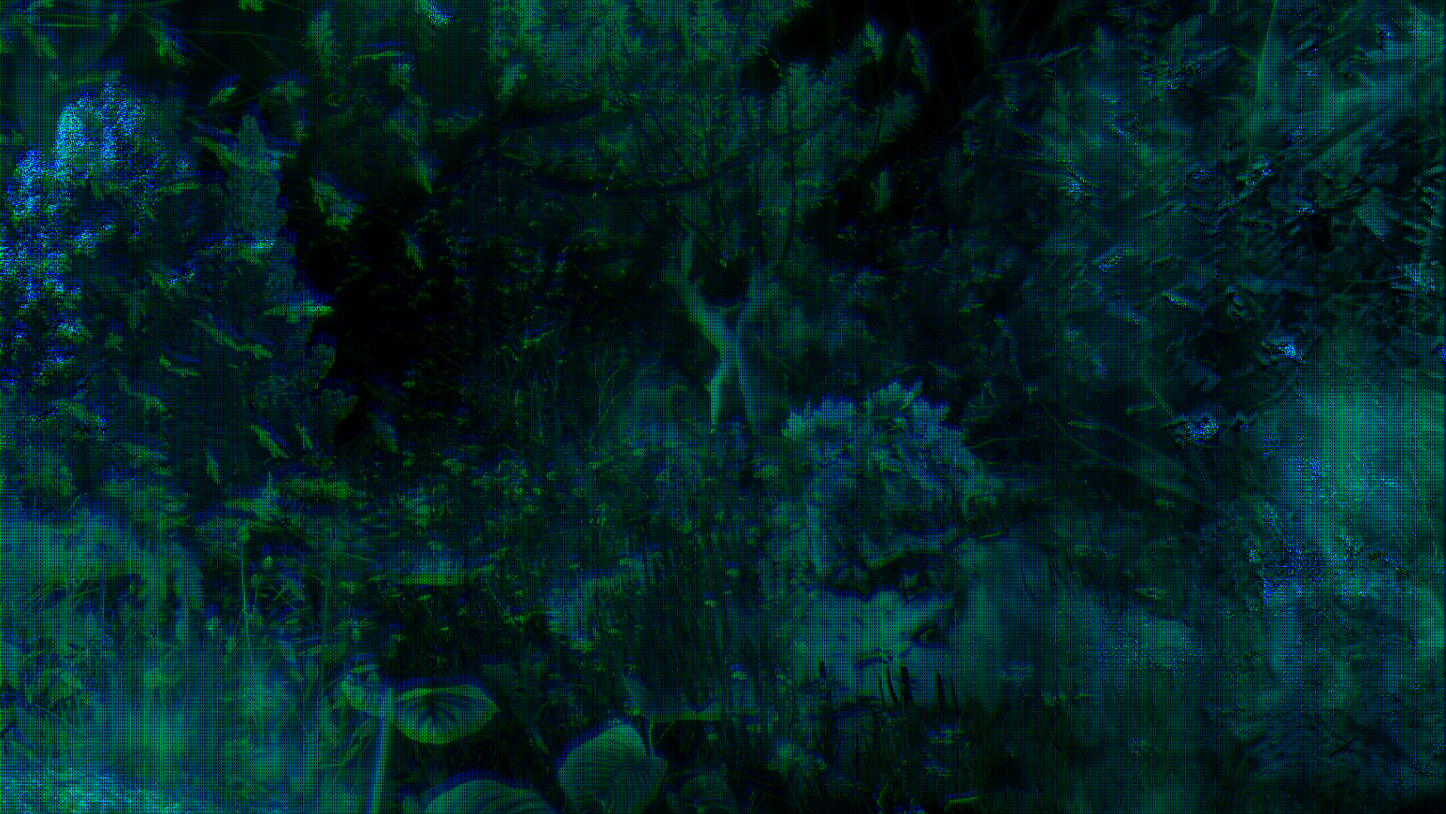
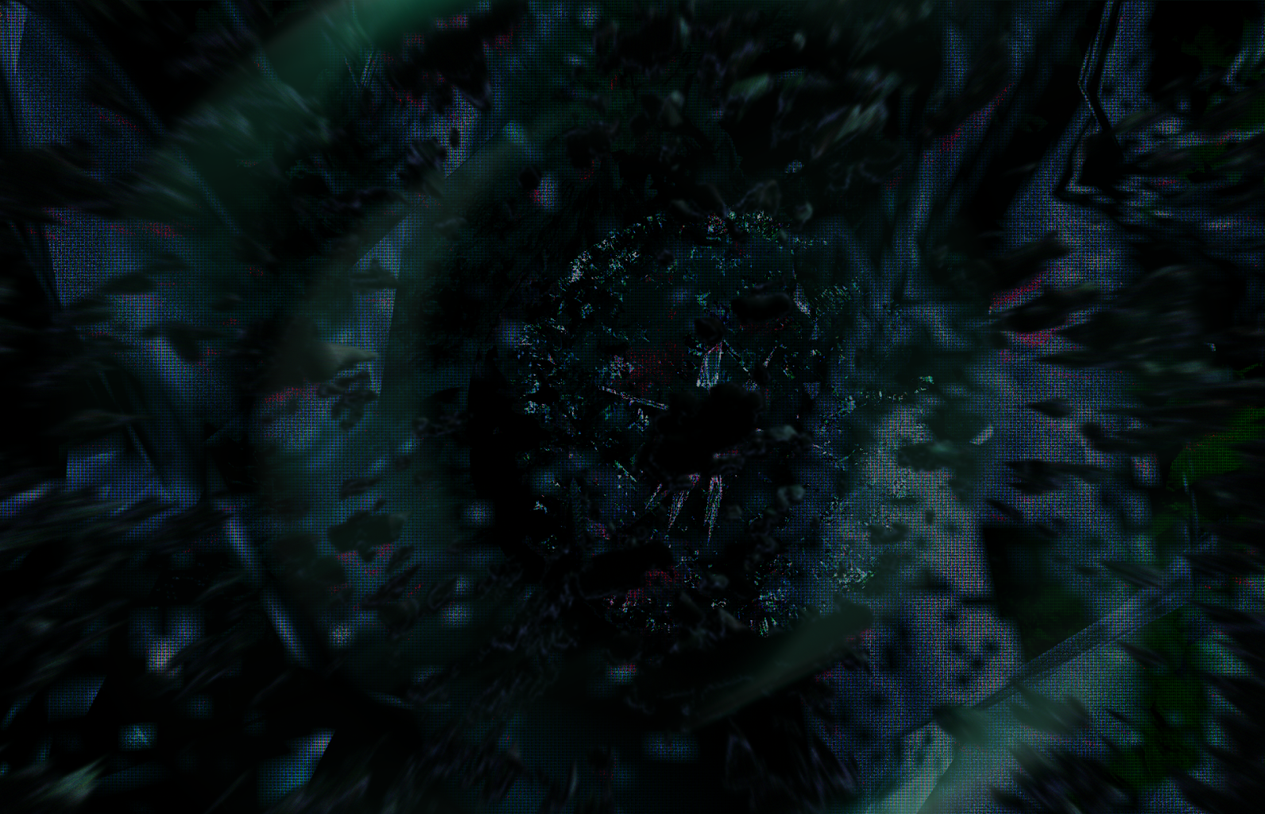
wallet: put new background image

diff --git a/bin/darkwallet/src/app/schema.rs b/bin/darkwallet/src/app/schema.rs
@@ -374,7 +374,7 @@ pub(super) async fn make_test(app: &App, window: SceneNodePtr) {
     // ChatView
     let node = create_chatview("chatty");
     let prop = node.get_property("rect").unwrap();
-    prop.set_f32(Role::App, 0, 0.).unwrap();
+    prop.set_f32(Role::App, 0, 10.).unwrap();
     let code = cc.compile("h/2").unwrap();
     prop.set_expr(Role::App, 1, code).unwrap();
     prop.set_expr(Role::App, 2, expr::load_var("w")).unwrap();
@@ -488,7 +488,8 @@ pub(super) async fn make(app: &App, window: SceneNodePtr) {
     prop.set_expr(Role::App, 3, expr::load_var("h")).unwrap();
 
     // Image aspect ratio
-    let R = 1.78;
+    //let R = 1.78;
+    let R = 1.555;
     cc.add_const_f32("R", R);
 
     let prop = node.get_property("uv").unwrap();
@@ -529,7 +530,7 @@ pub(super) async fn make(app: &App, window: SceneNodePtr) {
     prop.set_expr(Role::App, 3, expr::load_var("h")).unwrap();
     node.set_property_u32(Role::App, "z_index", 1).unwrap();
 
-    let c = if LIGHTMODE { 1. } else { 0.05 };
+    let c = if LIGHTMODE { 1. } else { 0. };
     // Setup the pimpl
     let node_id = node.id;
     let mut shape = VectorShape::new();
@@ -538,7 +539,7 @@ pub(super) async fn make(app: &App, window: SceneNodePtr) {
         expr::const_f32(0.),
         expr::load_var("w"),
         expr::load_var("h"),
-        [c, c, c, 0.4],
+        [c, c, c, 0.3],
     );
     let node =
         node.setup(|me| VectorArt::new(me, shape, app.render_api.clone(), app.ex.clone())).await;
@@ -608,9 +609,10 @@ pub(super) async fn make(app: &App, window: SceneNodePtr) {
     // ChatView
     let node = create_chatview("chatty");
     let prop = node.get_property("rect").unwrap();
-    prop.set_f32(Role::App, 0, 0.).unwrap();
+    prop.set_f32(Role::App, 0, 10.).unwrap();
     prop.set_f32(Role::App, 1, EDITCHAT_HEIGHT).unwrap();
-    prop.set_expr(Role::App, 2, expr::load_var("w")).unwrap();
+    let code = cc.compile("w - 30").unwrap();
+    prop.set_expr(Role::App, 2, code).unwrap();
     let code = cc.compile("h - 2 * EDITCHAT_HEIGHT").unwrap();
     prop.set_expr(Role::App, 3, code).unwrap();
     node.set_property_f32(Role::App, "font_size", FONTSIZE).unwrap();
